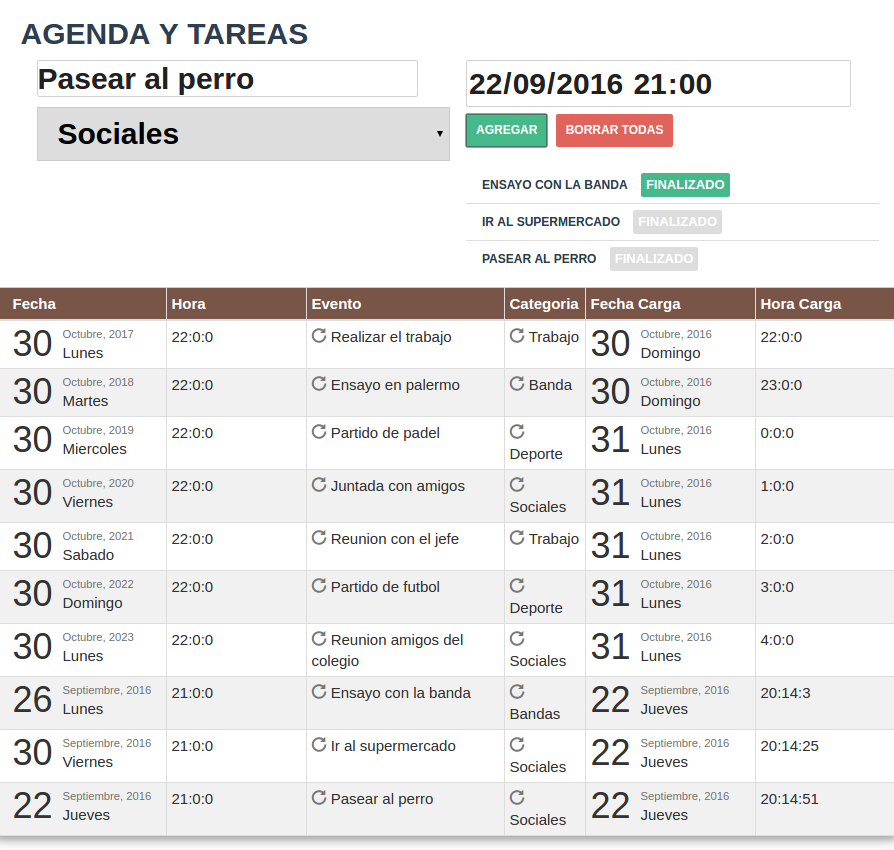
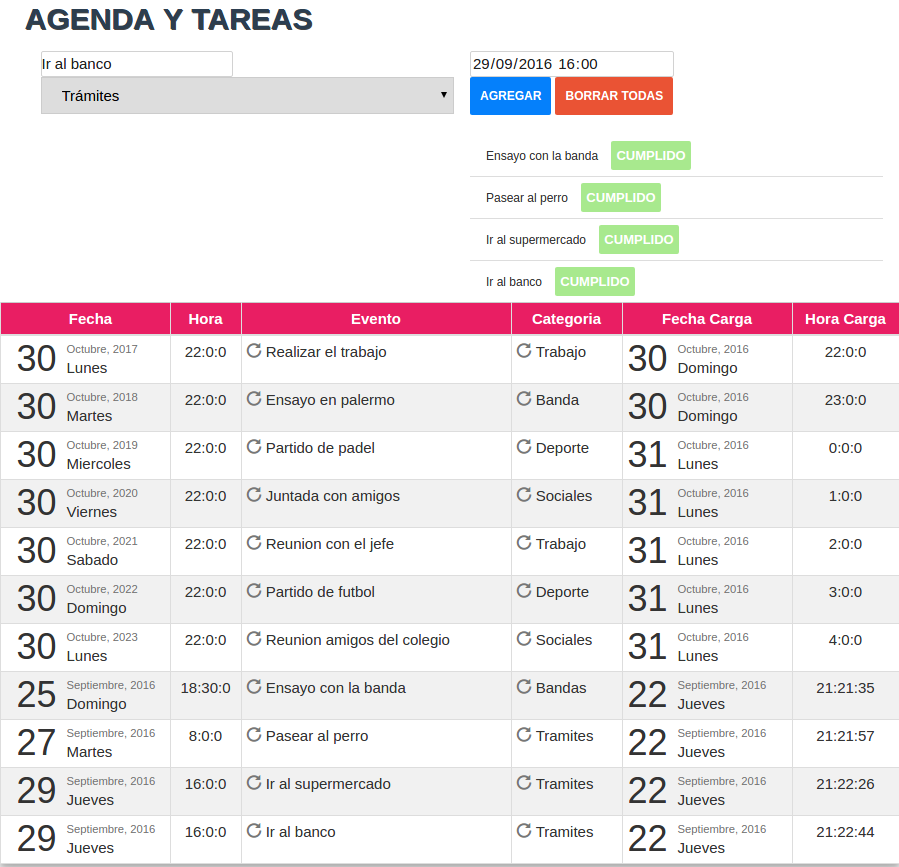
nueva img de preview

diff --git a/todo.html b/todo.html
@@ -17,29 +17,35 @@
 <body>
     <div class="wrapper">
         <div class="border">
+          <div class="w3-text-shadow w3-margin-right w3-margin-bottom">
           <h2>Agenda y tareas<h2>
+          </div>
+
             <div class="w3-row-padding">
               <div class="w3-half">
                 <tr>
                   <td>
-                    <input type="text"  id="inputevento" placeholder="   Evento">
+                    <input type="text" id="inputevento" placeholder="    Evento">
                   </td>
               </div>
               <div class="w3-half">
                   <td>
-                    <input type="datetime-local" class="" id="fechafutura" placeholder="Fecha">
+                    <input type="datetime-local" class="" id="fechafutura" placeholder="">
                   </td>
               </tr>
             </div>
+            <br>
             <div class="w3-half">
               <tr class="">
                 <td>
                   <select class="w3-select w3-border w3-padding" id="inputeventocategoria" name="opciones">
                     <option value="" disabled selected>Categoria</option>
-                    <option value="Trabajo">Trabajo</option>
                     <option value="Bandas">Bandas</option>
-                    <option value="Deporte">Deporte</option>
+                    <option value="Deportes">Deporte</option>
+                    <option value="Personales">Personales</option>
                     <option value="Sociales">Sociales</option>
+                    <option value="Trabajos">Trabajos</option>
+                    <option value="Tramites">Trámites</option>
                   </select>
                 </td>
             </div>
@@ -51,6 +57,7 @@
                 </td>
               </tr>
             </div>
+            <br>
           </div>
         </div>
 
@@ -58,13 +65,13 @@
          <div class="table-responsive w3-responsive">
              <table class="table table-condensed table-bordered w3-table-all w3-hoverable w3-striped w3-card-4">
                  <thead>
-                     <tr class="w3-brown">
-                         <th>Fecha</th>
-                         <th>Hora</th>
-                         <th>Evento</th>
-                         <th>Categoria</th>
-                         <th>Fecha Carga</th>
-                         <th>Hora Carga</th>
+                     <tr class="w3-pink">
+                         <th class="w3-center" style="width:%">Fecha</th>
+                         <th class="w3-center" style="width:8%">Hora</th>
+                         <th class="w3-center" style="width:%">Evento</th>
+                         <th class="w3-center" style="width:%">Categoria</th>
+                         <th class="w3-center" style="width:%">Fecha Carga</th>
+                         <th class="w3-center" style="width:12%">Hora Carga</th>
                     </tr>
                  </thead>
                  <tbody>

diff --git a/public/js/agenda.js b/public/js/agenda.js
@@ -88,7 +88,7 @@ function addEventToAgenda(description, dueDate, category, fechafutura ) {
             <div class="dayofweek">${fdiasDeSemana}</div>
             </td>
 
-            <td class="agenda-time">
+            <td class="agenda-time w3-center">
             ${horas2}:${minutos2}:${segundos2}
             </td>
 
@@ -112,7 +112,7 @@ function addEventToAgenda(description, dueDate, category, fechafutura ) {
             <div class="dayofweek">${pdayOfWeek}</div>
             </td>
 
-            <td class="agenda-time">
+            <td class="agenda-time w3-center">
               ${hours}:${minutes}:${seconds}
           </td>
     </tr>

diff --git a/public/css/todo.css b/public/css/todo.css
@@ -44,19 +44,19 @@ button {
 }
 
 button#add {
-    background-color: #46b98a;
+    background-color: #0580FB;
 }
 
 button#add:hover {
-    background-color: #3fa67c;
+    background-color: #509BE5;
 }
 
 button#removeAll {
-    background-color: #E0645C;
+    background-color: #EA5334;
 }
 
 button#removeAll:hover {
-    background-color: #c95a52;
+    background-color: #ED7B65;
 }
 
 button.removeMe {
@@ -66,6 +66,9 @@ button.removeMe {
     font-weight: 700;
 }
 
+button.removeMe {
+    background-color: #A8E98E;
+}
 button.removeMe:hover {
     background-color: #46b98a;
 }

diff --git a/public/js/todo.js b/public/js/todo.js
@@ -14,7 +14,7 @@ function addLi(targetUl) {
     }
 
     removeButton.className = 'removeMe';
-    removeButton.innerHTML = 'Finalizado';
+    removeButton.innerHTML = 'Cumplido';
     removeButton.setAttribute('onclick', 'removeMe(this);');
 
     li.appendChild(textNode);
